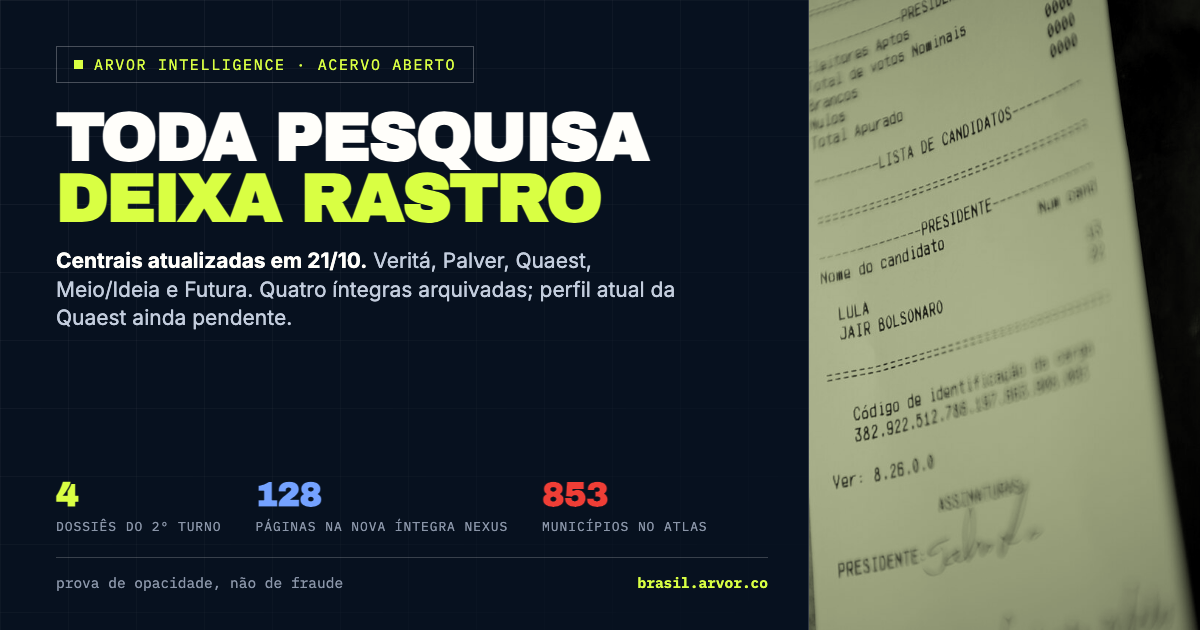
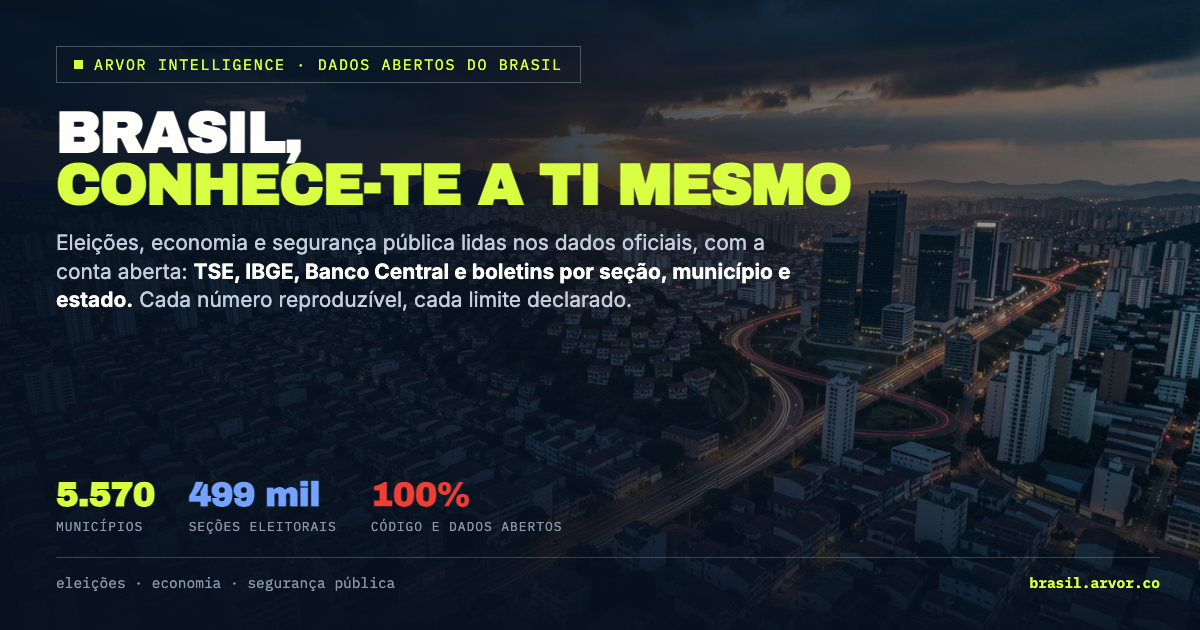
social card da home: Brasil, conhece-te a ti mesmo, com foto de fundo inteira
Card hub passa a cobrir eleições, economia e segurança pública: fundo aéreo
gerado localmente com FLUX 2 Klein (docs/img/hub/, prompt no README), novo
suporte a foto de fundo inteira no manifesto (chave bg) e alt text da home.

diff --git a/docs/assets/og/hub.html b/docs/assets/og/hub.html
@@ -8,7 +8,7 @@
 <style>
   *{box-sizing:border-box;margin:0;padding:0}
   body{width:1200px;height:630px;overflow:hidden;background:#07111f;color:#fffefa;font-family:Inter,system-ui,sans-serif}
-  .card{position:relative;width:1200px;height:630px;display:grid;grid-template-columns:1fr 392px;overflow:hidden}
+  .card{position:relative;width:1200px;height:630px;display:grid;grid-template-columns:1fr;overflow:hidden}
   .card::before{content:"";position:absolute;inset:0;z-index:0;
     background:linear-gradient(rgba(255,255,255,.05) 1px,transparent 1px) 0 0/68px 68px,
                linear-gradient(90deg,rgba(255,255,255,.05) 1px,transparent 1px) 0 0/68px 68px;
@@ -18,10 +18,10 @@
     border:1px solid rgba(255,255,255,.26);font-family:"IBM Plex Mono",monospace;font-size:15px;
     letter-spacing:.11em;text-transform:uppercase;color:#d9ff43}
   .eyebrow i{width:9px;height:9px;background:#d9ff43;display:block}
-  h1{font-family:"Archivo Black",sans-serif;font-size:68px;line-height:.9;letter-spacing:-.03em;
+  h1{font-family:"Archivo Black",sans-serif;font-size:58px;line-height:.9;letter-spacing:-.03em;
     margin:24px 0 0;text-transform:uppercase}
   h1 em{font-style:normal;color:#d9ff43;display:block}
-  .lede{font-size:21px;line-height:1.36;color:#c3cddd;max-width:620px;margin-top:18px}
+  .lede{font-size:21px;line-height:1.36;color:#c3cddd;max-width:740px;margin-top:18px}
   .lede b{color:#fffefa}
   .stats{display:flex;gap:34px}
   .stats b{font-family:"Archivo Black",sans-serif;font-size:34px;letter-spacing:-.02em;line-height:1;display:block}
@@ -45,24 +45,30 @@
     background:linear-gradient(transparent,rgba(0,0,0,.88));font-family:"IBM Plex Mono",monospace;
     font-size:13px;letter-spacing:.08em;text-transform:uppercase;color:#e7e3d8}
   .duo figcaption b{display:block;font-family:"Archivo Black",sans-serif;font-size:34px;letter-spacing:-.02em;color:#fff}
+  .bg{position:absolute;inset:0;z-index:0}
+  .bg img{width:100%;height:100%;object-fit:cover;object-position:center 40%}
+  .bg::after{content:"";position:absolute;inset:0;
+    background:linear-gradient(100deg,rgba(7,17,31,.93) 0%,rgba(7,17,31,.8) 44%,rgba(7,17,31,.18) 100%),
+               linear-gradient(0deg,rgba(7,17,31,.9) 0%,rgba(7,17,31,0) 44%)}
+  .card.com-fundo::before{opacity:.6}
   .tag{position:absolute;top:0;right:0;z-index:4;padding:10px 20px;background:#d9ff43;color:#07111f;
     font-family:"IBM Plex Mono",monospace;font-size:14px;font-weight:600;letter-spacing:.14em;text-transform:uppercase}
 </style>
 </head>
 <body>
-  <div class="card">
+  <div class="card com-fundo">
     <div class="left">
       <div>
-        <span class="eyebrow"><i></i>Arvor Intelligence · acervo aberto</span>
-        <h1>Toda pesquisa<em>deixa rastro</em></h1>
-        <p class="lede"><b>Centrais atualizadas em 21/10.</b> Veritá, Palver, Quaest, Meio/Ideia e Futura. Quatro íntegras arquivadas; perfil atual da Quaest ainda pendente.</p>
+        <span class="eyebrow"><i></i>Arvor Intelligence · dados abertos do Brasil</span>
+        <h1>Brasil,<em>conhece-te a ti mesmo</em></h1>
+        <p class="lede">Eleições, economia e segurança pública lidas nos dados oficiais, com a conta aberta: <b>TSE, IBGE, Banco Central e boletins por seção, município e estado.</b> Cada número reproduzível, cada limite declarado.</p>
       </div>
       <div>
-        <div class="stats"><div class="s0"><b>4</b><span>dossiês do 2º turno</span></div><div class="s1"><b>128</b><span>páginas na nova íntegra Nexus</span></div><div class="s2"><b>853</b><span>municípios no atlas</span></div></div>
-        <div class="foot"><span>prova de opacidade, não de fraude</span><span><b>brasil.arvor.co</b></span></div>
+        <div class="stats"><div class="s0"><b>5.570</b><span>municípios</span></div><div class="s1"><b>499 mil</b><span>seções eleitorais</span></div><div class="s2"><b>100%</b><span>código e dados abertos</span></div></div>
+        <div class="foot"><span>eleições · economia · segurança pública</span><span><b>brasil.arvor.co</b></span></div>
       </div>
     </div>
-    <div class="right"><img src="../../img/atlas_072026/web/urna-fila.jpg" alt=""></div>
+    <div class="bg"><img src="../../img/hub/brasil_fundo.jpg" alt=""></div>
   </div>
 </body>
 </html>

diff --git a/docs/index.html b/docs/index.html
@@ -20,12 +20,12 @@
   <meta property="og:image" content="https://brasil.arvor.co/img/og/hub.png">
   <meta property="og:image:width" content="1200">
   <meta property="og:image:height" content="630">
-  <meta property="og:image:alt" content="Arvor Intelligence: quatro dossiês do segundo turno, centrais atualizadas e réguas oficiais TSE e IBGE/PNAD.">
+  <meta property="og:image:alt" content="Arvor Intelligence. Brasil, conhece-te a ti mesmo: eleições, economia e segurança pública nos dados oficiais, sobre imagem aérea de metrópole gerada por IA.">
   <meta name="twitter:card" content="summary_large_image">
   <meta name="twitter:title" content="Arvor Intelligence, o acervo">
   <meta name="twitter:description" content="Cenário de 25/10: previsão de chuva no Brasil, mapa da abstenção no primeiro turno e reponderação geral das pesquisas. Dados, contas e limites explícitos.">
   <meta name="twitter:image" content="https://brasil.arvor.co/img/og/hub.png">
-  <meta name="twitter:image:alt" content="Arvor Intelligence: quatro dossiês do segundo turno, centrais atualizadas e réguas oficiais TSE e IBGE/PNAD.">
+  <meta name="twitter:image:alt" content="Arvor Intelligence. Brasil, conhece-te a ti mesmo: eleições, economia e segurança pública nos dados oficiais, sobre imagem aérea de metrópole gerada por IA.">
   <link rel="stylesheet" href="assets/index.css?v=20261013">
   <link rel="stylesheet" href="assets/reponderacao_tip.css">
   <script>

diff --git a/scripts/social-cards.py b/scripts/social-cards.py
@@ -307,18 +307,20 @@ CARDS: list[dict] = [
     },
     {
         "slug": "hub",
-        "eyebrow": "Arvor Intelligence · acervo aberto",
-        "title": "Toda pesquisa",
-        "title_em": "deixa rastro",
-        "lede": "<b>Centrais atualizadas em 21/10.</b> Veritá, Palver, Quaest, Meio/Ideia e Futura. Quatro íntegras arquivadas; perfil atual da Quaest ainda pendente.",
+        "eyebrow": "Arvor Intelligence · dados abertos do Brasil",
+        "title": "Brasil,",
+        "title_em": "conhece-te a ti mesmo",
+        "lede": "Eleições, economia e segurança pública lidas nos dados oficiais, com a conta aberta: <b>TSE, IBGE, Banco Central e boletins por seção, município e estado.</b> Cada número reproduzível, cada limite declarado.",
         "stats": [
-            ("4", "dossiês do 2º turno"),
-            ("128", "páginas na nova íntegra Nexus"),
-            ("853", "municípios no atlas"),
+            ("5.570", "municípios"),
+            ("499 mil", "seções eleitorais"),
+            ("100%", "código e dados abertos"),
         ],
-        "foot": "prova de opacidade, não de fraude",
+        "foot": "eleições · economia · segurança pública",
         "accent": "lime",
-        "photo": "img/atlas_072026/web/urna-fila.jpg",
+        # Foto de fundo inteira (não o painel lateral): imagem aérea gerada localmente com
+        # FLUX 2 Klein (mflux), sem direitos de terceiros; prompt em docs/img/hub/README.md.
+        "bg": "img/hub/brasil_fundo.jpg",
     },
     {
         "slug": "mg_082026",
@@ -1002,12 +1004,18 @@ TEMPLATE = """<!doctype html>
     background:linear-gradient(transparent,rgba(0,0,0,.88));font-family:"IBM Plex Mono",monospace;
     font-size:13px;letter-spacing:.08em;text-transform:uppercase;color:#e7e3d8}}
   .duo figcaption b{{display:block;font-family:"Archivo Black",sans-serif;font-size:34px;letter-spacing:-.02em;color:#fff}}
+  .bg{{position:absolute;inset:0;z-index:0}}
+  .bg img{{width:100%;height:100%;object-fit:cover;object-position:center 40%}}
+  .bg::after{{content:"";position:absolute;inset:0;
+    background:linear-gradient(100deg,rgba(7,17,31,.93) 0%,rgba(7,17,31,.8) 44%,rgba(7,17,31,.18) 100%),
+               linear-gradient(0deg,rgba(7,17,31,.9) 0%,rgba(7,17,31,0) 44%)}}
+  .card.com-fundo::before{{opacity:.6}}
   .tag{{position:absolute;top:0;right:0;z-index:4;padding:10px 20px;background:{accent};color:#07111f;
     font-family:"IBM Plex Mono",monospace;font-size:14px;font-weight:600;letter-spacing:.14em;text-transform:uppercase}}
 </style>
 </head>
 <body>
-  <div class="card">{tag}
+  <div class="card{card_class}">{tag}
     <div class="left">
       <div>
         <span class="eyebrow"><i></i>{eyebrow}</span>
@@ -1038,7 +1046,9 @@ def render_card(card: dict) -> str:
         f'<div class="s{i}"><b>{escape(value)}</b><span>{escape(label)}</span></div>'
         for i, (value, label) in enumerate(card.get("stats", []))
     )
-    if card.get("duo"):
+    if card.get("bg"):
+        right = f'\n    <div class="bg"><img src="../../{card["bg"]}" alt=""></div>'
+    elif card.get("duo"):
         values = card.get("duo_values", ("41", "37"))
         right = DUO_PANEL.format(left_value=values[0], right_value=values[1])
     elif card.get("photo"):
@@ -1058,7 +1068,8 @@ def render_card(card: dict) -> str:
         slug=card["slug"],
         accent=accent,
         columns="1fr 392px" if has_panel else "1fr",
-        lede_width=620 if has_panel else 900,
+        lede_width=620 if has_panel else 740 if card.get("bg") else 900,
+        card_class=" com-fundo" if card.get("bg") else "",
         title_size=title_size,
         eyebrow=escape(card["eyebrow"]),
         title=title,

diff --git a/docs/img/hub/README.md b/docs/img/hub/README.md
@@ -1,0 +1,15 @@
+# Fundo do social card da home
+
+`brasil_fundo.jpg` é uma imagem gerada localmente com FLUX 2 Klein 9B (mflux, Apple Silicon),
+sem direitos de terceiros. Serve só de fundo ao card `hub` de `scripts/social-cards.py`.
+Não é fotografia de lugar real; não usar como ilustração documental.
+
+Prompt (inglês, como enviado ao modelo):
+
+> Cinematic aerial photograph of a dense Brazilian metropolis at dusk from high altitude:
+> endless grid of rooftops, hillside favela and glass towers side by side, winding highways
+> with light trails, low warm sun breaking through dark storm clouds, deep blue and amber
+> tones, moody documentary realism, high detail, no text, no logos, no people.
+
+Parâmetros: 1360×768, 4 passos, quantização 8, semente 20261028.
+Para regerar o card: `python3 scripts/social-cards.py --only hub`.
